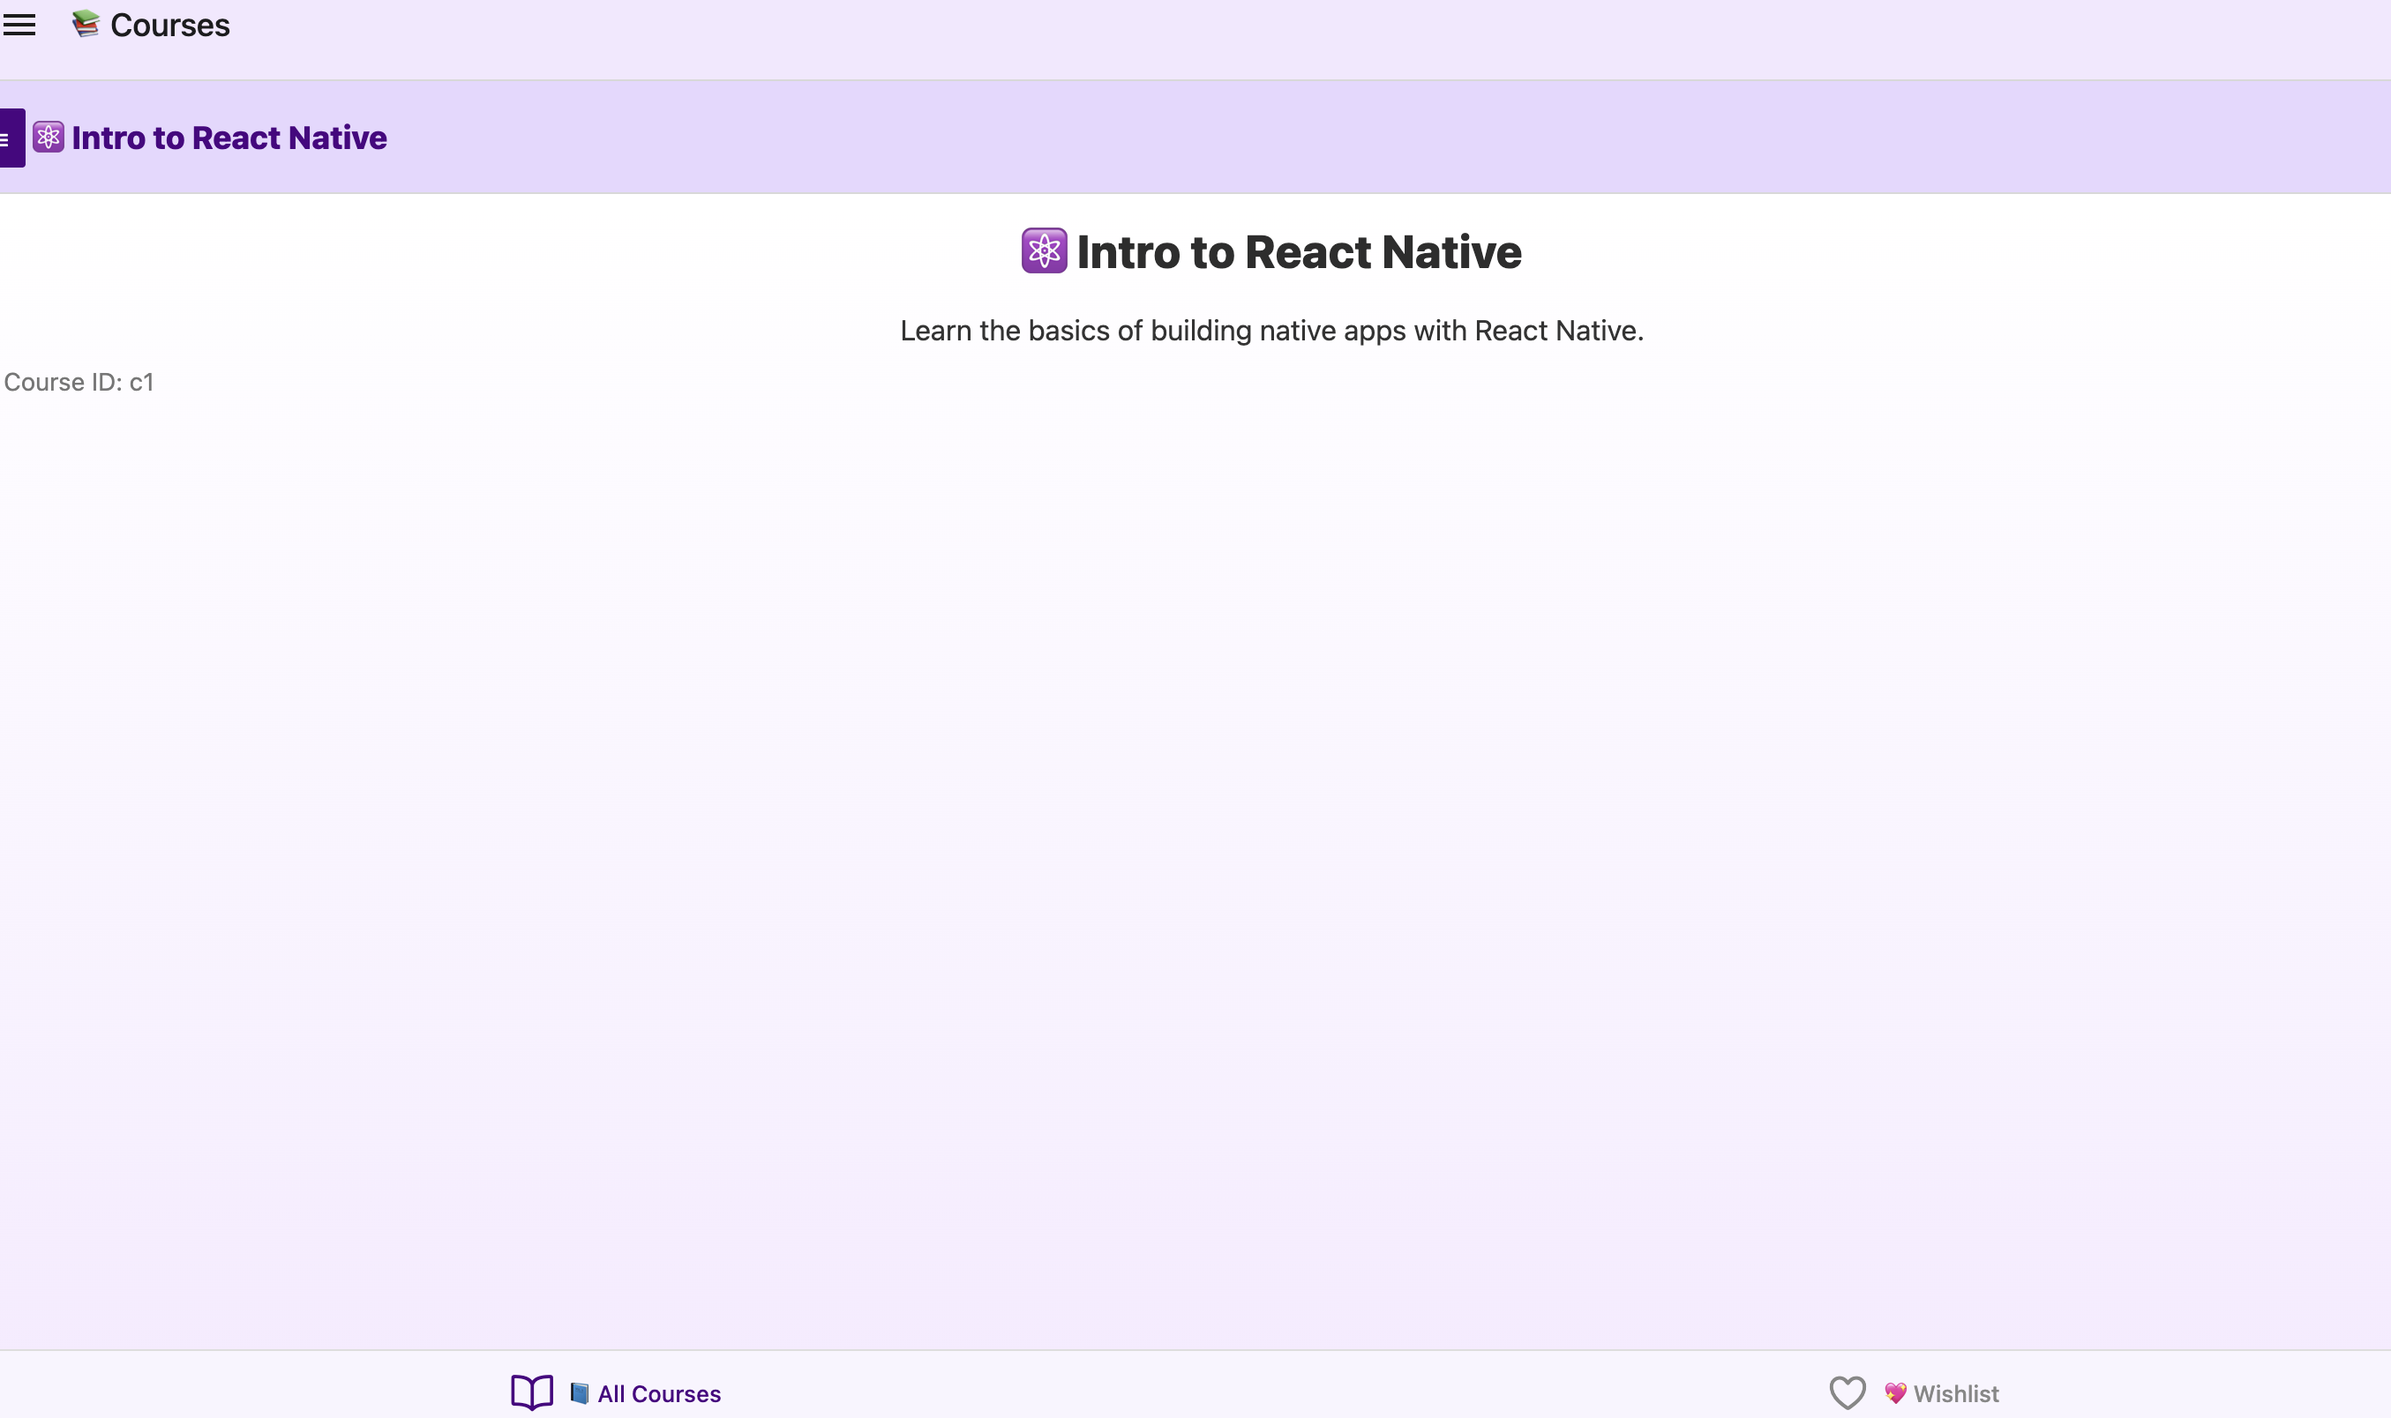
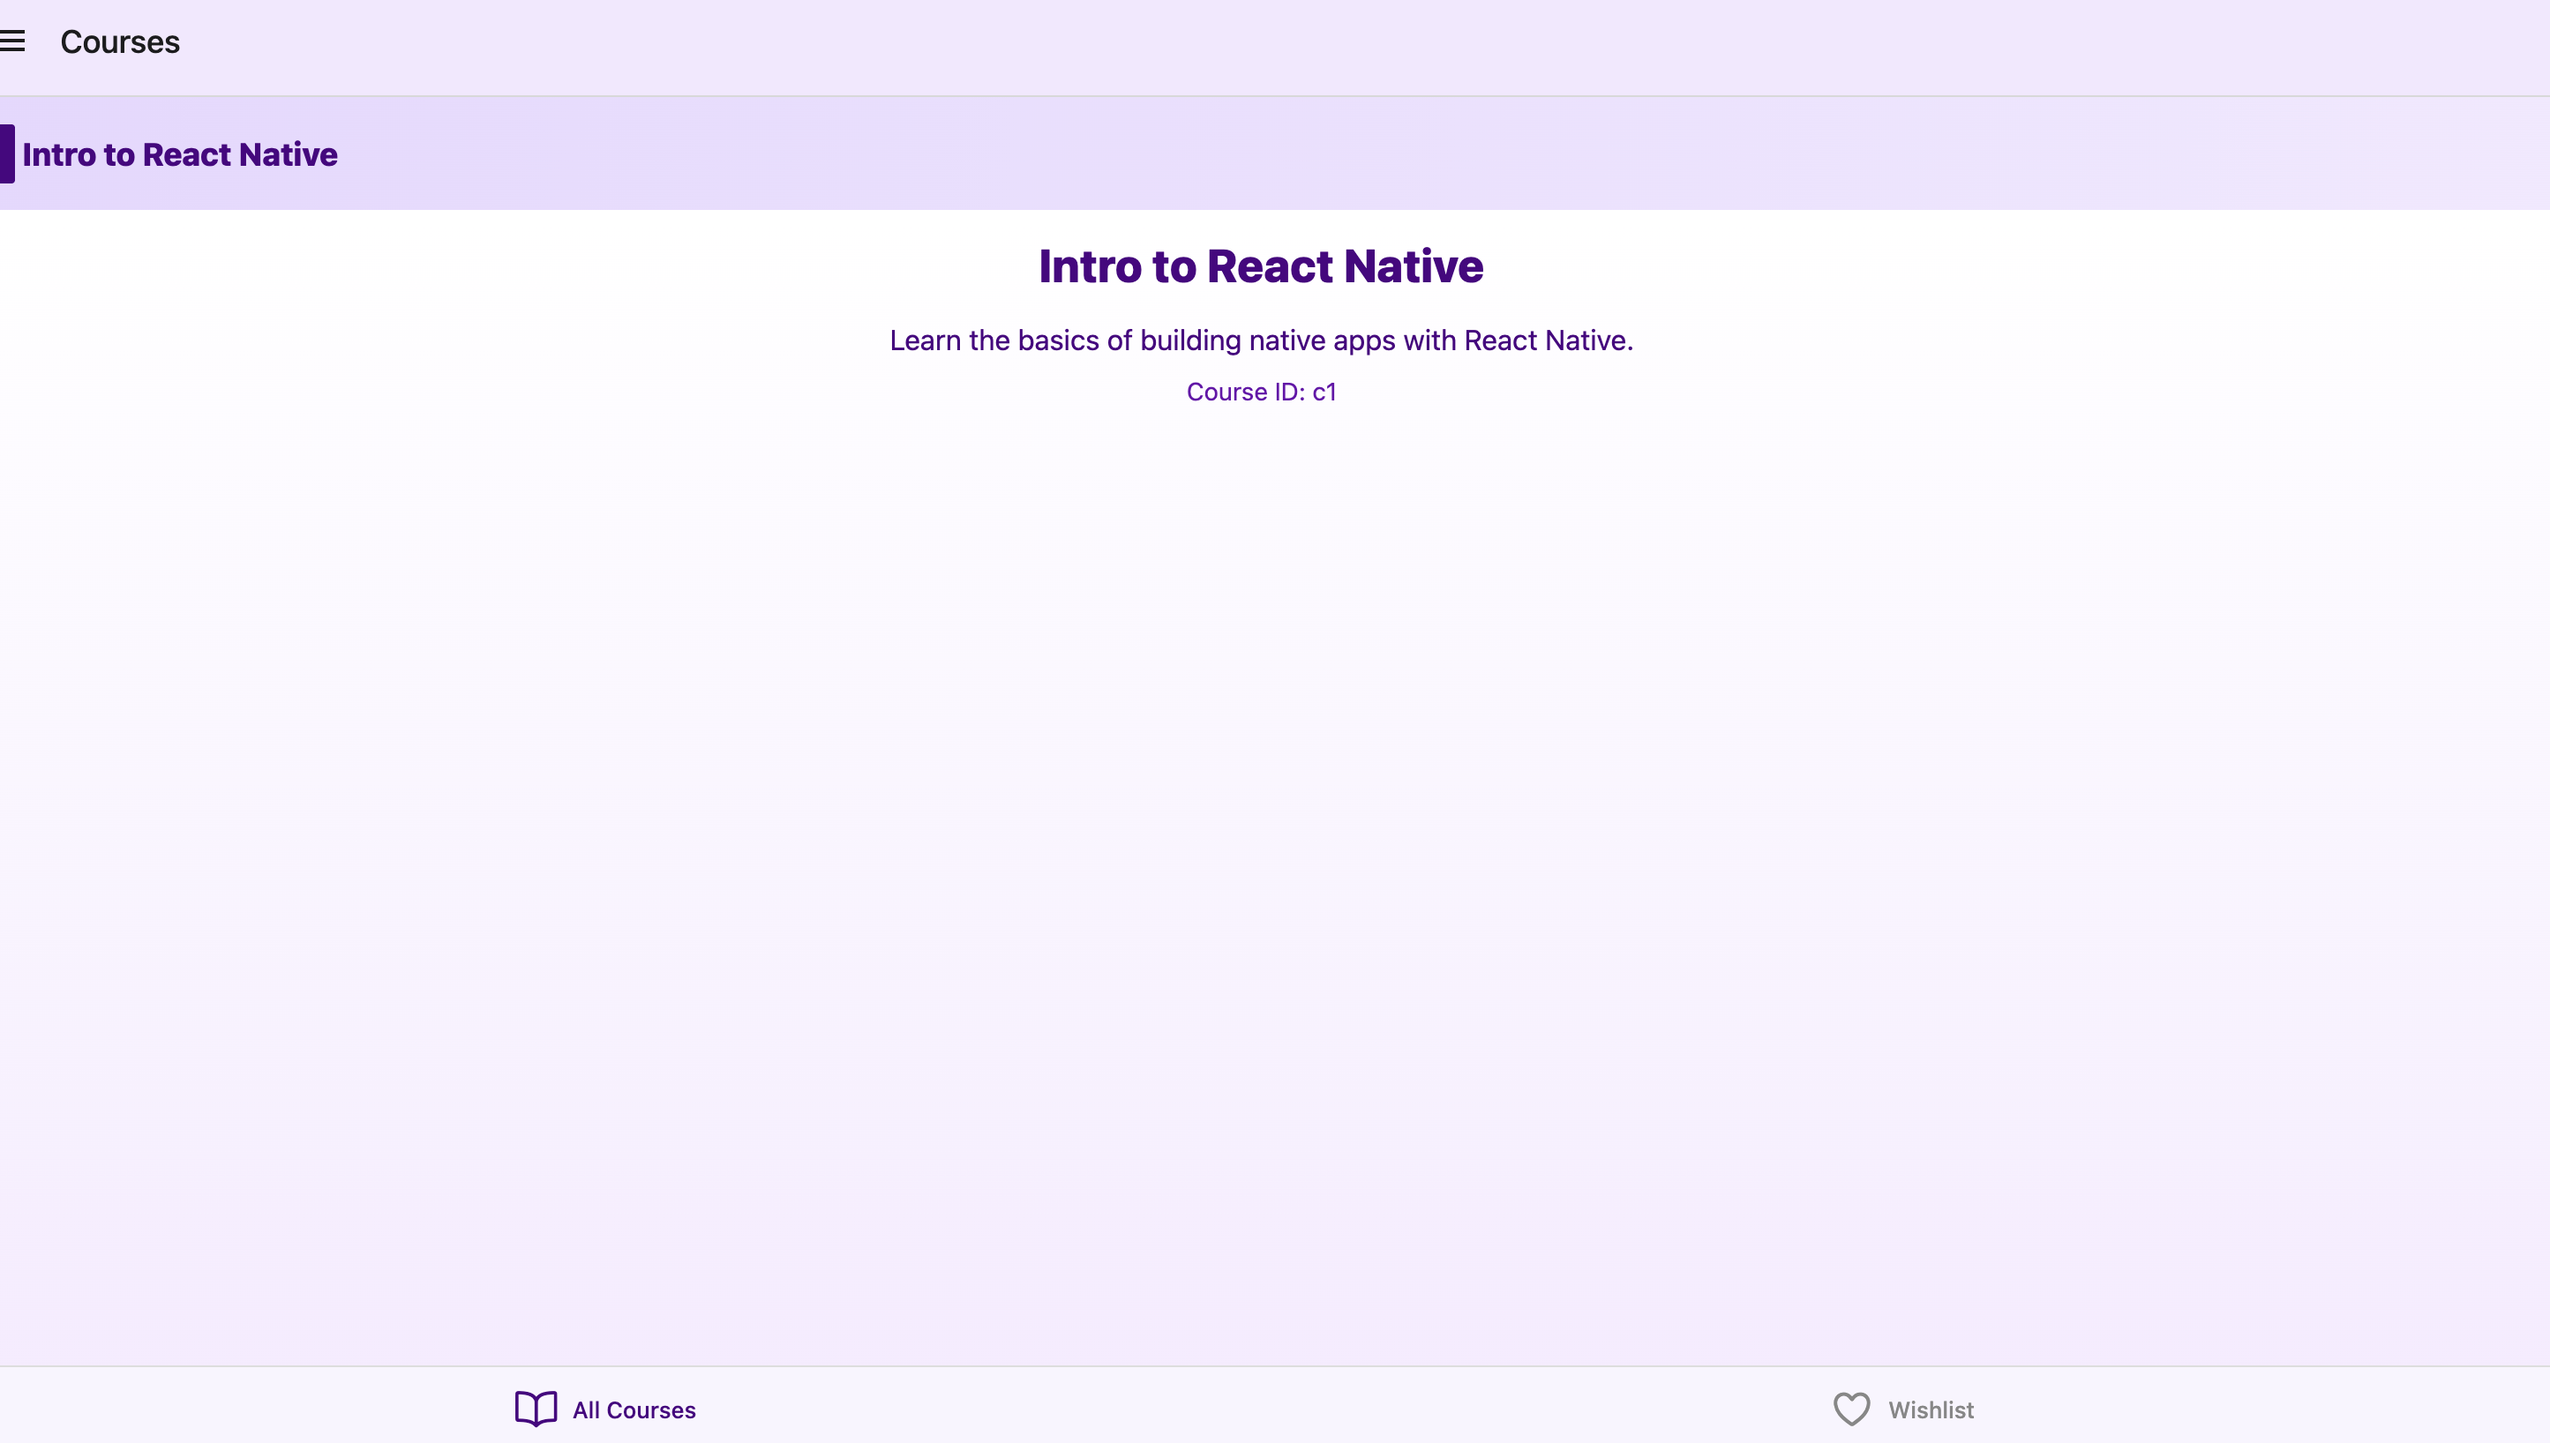
App-Version final - V3 - Devoir 5 Novembre 2025

diff --git a/app/_layout.tsx b/app/_layout.tsx
@@ -1,60 +1,118 @@
 import React from "react";
-import { Text, View, FlatList, Pressable, StyleSheet, Button, Image } from "react-native";
+import {
+  Text,
+  View,
+  FlatList,
+  Pressable,
+  StyleSheet,
+  Button,
+  Image,
+} from "react-native";
 import { DrawerActions } from "@react-navigation/native";
 import { createDrawerNavigator } from "@react-navigation/drawer";
 import { createBottomTabNavigator } from "@react-navigation/bottom-tabs";
 import { createNativeStackNavigator } from "@react-navigation/native-stack";
 import { LinearGradient } from "expo-linear-gradient";
 import Toast from "react-native-toast-message";
-import { Ionicons } from "@expo/vector-icons";
+import { Ionicons, MaterialCommunityIcons } from "@expo/vector-icons";
+import Animated, {
+  useSharedValue,
+  useAnimatedStyle,
+  withSpring,
+} from "react-native-reanimated";
 
 /* ---------- Données des cours ---------- */
 const COURSES = [
   {
     id: "c1",
-    title: "⚛ Intro to React Native",
+    title: "Intro to React Native",
     description: "Learn the basics of building native apps with React Native.",
   },
   {
     id: "c2",
-    title: "💡 Advanced JavaScript",
+    title: "Advanced JavaScript",
     description: "Deep dive into closures, prototypes, and async programming.",
   },
   {
     id: "c3",
-    title: "🎨 UI/UX for Developers",
+    title: "UI/UX for Developers",
     description: "Design better and more user-friendly interfaces.",
   },
 ];
 
+/* ---------- Composant : carte animée avec icônes ---------- */
+function AnimatedCourseCard({ item, navigation }: { item: any; navigation: any }) {
+  const scale = useSharedValue(1);
+
+  const animatedStyle = useAnimatedStyle(() => ({
+    transform: [{ scale: scale.value }],
+  }));
+
+  return (
+    <Animated.View style={[styles.card, animatedStyle]}>
+      <Pressable
+        onPressIn={() => (scale.value = withSpring(0.97))}
+        onPressOut={() => (scale.value = withSpring(1))}
+        onPress={() => {
+          Toast.show({
+            type: "success",
+            text1: "Opening course",
+            text2: item.title,
+          });
+          navigation.navigate("CourseDetail", {
+            courseId: item.id,
+            title: item.title,
+            description: item.description,
+          });
+        }}
+      >
+        <View style={{ flexDirection: "row", alignItems: "center" }}>
+          {item.id === "c1" && (
+            <Ionicons
+              name="compass-outline"
+              size={20}
+              color="#4b0082"
+              style={{ marginRight: 8 }}
+            />
+          )}
+          {item.id === "c2" && (
+            <MaterialCommunityIcons
+              name="code-tags"
+              size={20}
+              color="#4b0082"
+              style={{ marginRight: 8 }}
+            />
+          )}
+          {item.id === "c3" && (
+            <Ionicons
+              name="color-palette-outline"
+              size={20}
+              color="#4b0082"
+              style={{ marginRight: 8 }}
+            />
+          )}
+          <Text style={styles.cardTitle}>{item.title}</Text>
+        </View>
+        <Text style={styles.cardDesc}>{item.description}</Text>
+      </Pressable>
+    </Animated.View>
+  );
+}
+
 /* ---------- Écran : liste des cours ---------- */
 function CourseListScreen({ navigation }: { navigation: any }) {
   return (
-    <LinearGradient colors={["#f6ecff", "#faf7ff", "#ffffff"]} style={styles.gradient}>
-      <Text style={styles.heading}>📚 All Courses</Text>
+    <LinearGradient
+      colors={["#f6ecff", "#faf7ff", "#ffffff"]}
+      style={styles.gradient}
+    >
+      <Text style={styles.heading}>All Courses</Text>
 
       <FlatList
         data={COURSES}
         keyExtractor={(item) => item.id}
         renderItem={({ item }) => (
-          <Pressable
-            style={({ pressed }) => [styles.card, pressed && styles.pressed]}
-            onPress={() => {
-              Toast.show({
-                type: "success",
-                text1: "Opening course",
-                text2: item.title,
-              });
-              navigation.navigate("CourseDetail", {
-                courseId: item.id,
-                title: item.title,
-                description: item.description,
-              });
-            }}
-          >
-            <Text style={styles.cardTitle}>{item.title}</Text>
-            <Text style={styles.cardDesc}>{item.description}</Text>
-          </Pressable>
+          <AnimatedCourseCard item={item} navigation={navigation} />
         )}
       />
       <Toast />
@@ -69,7 +127,7 @@ function CourseDetailScreen({ route }: { route: any }) {
     <LinearGradient colors={["#ffffff", "#f6ecff"]} style={styles.gradient}>
       <Text style={styles.heading}>{title}</Text>
       <Text style={styles.body}>{description}</Text>
-      <Text style={{ color: "#777", marginTop: 10 }}>Course ID: {courseId}</Text>
+      <Text style={styles.subText}>Course ID: {courseId}</Text>
     </LinearGradient>
   );
 }
@@ -78,7 +136,7 @@ function CourseDetailScreen({ route }: { route: any }) {
 function WishlistScreen() {
   return (
     <LinearGradient colors={["#fff0f6", "#ffffff"]} style={styles.gradient}>
-      <Text style={styles.heading}>💖 My Wishlist</Text>
+      <Text style={styles.heading}>My Wishlist</Text>
       <Text style={styles.body}>Your wishlist is empty for now...</Text>
     </LinearGradient>
   );
@@ -91,11 +149,16 @@ function ProfileScreen() {
       <View style={{ alignItems: "center" }}>
         <Image
           source={{ uri: "https://i.pravatar.cc/150?img=47" }}
-          style={{ width: 100, height: 100, borderRadius: 50, marginBottom: 16 }}
+          style={{
+            width: 100,
+            height: 100,
+            borderRadius: 50,
+            marginBottom: 16,
+          }}
         />
-        <Text style={styles.heading}>👩💻 My Profile</Text>
+        <Text style={styles.heading}>My Profile</Text>
         <Text style={styles.body}>Name: Firdaws El Yahiaoui </Text>
-        <Text style={styles.body}>Email: f.elyahiaoui@students.ephec.be </Text>
+        <Text style={styles.body}>Email: firdawselyahiaoui.pro@gmail.com</Text>
       </View>
     </LinearGradient>
   );
@@ -109,23 +172,38 @@ function CoursesStack() {
     <Stack.Navigator
       screenOptions={({ navigation }) => ({
         headerShown: true,
-        headerStyle: { backgroundColor: "#e8d7ff" },
         headerTintColor: "#4b0082",
         headerTitleStyle: { fontWeight: "800", fontSize: 18 },
+        headerBackground: () => (
+          <LinearGradient
+            colors={["#e8d7ff", "#f2e9ff"]}
+            start={{ x: 0, y: 0 }}
+            end={{ x: 1, y: 1 }}
+            style={{ flex: 1 }}
+          />
+        ),
         headerLeft: () => (
           <Button
             title="☰"
             color="#4b0082"
-            onPress={() => navigation.getParent()?.dispatch(DrawerActions.openDrawer())}
+            onPress={() =>
+              navigation.getParent()?.dispatch(DrawerActions.openDrawer())
+            }
           />
         ),
       })}
     >
-      <Stack.Screen name="CourseList" component={CourseListScreen} options={{ title: "Courses" }} />
+      <Stack.Screen
+        name="CourseList"
+        component={CourseListScreen}
+        options={{ title: "Courses" }}
+      />
       <Stack.Screen
         name="CourseDetail"
         component={CourseDetailScreen}
-        options={({ route }: any) => ({ title: route.params?.title || "Course Detail" })}
+        options={({ route }: any) => ({
+          title: route.params?.title || "Course Detail",
+        })}
       />
     </Stack.Navigator>
   );
@@ -148,7 +226,7 @@ function CoursesTabs() {
         name="AllCourses"
         component={CoursesStack}
         options={{
-          title: "📘 All Courses",
+          title: "All Courses",
           tabBarIcon: ({ color, size }) => (
             <Ionicons name="book-outline" color={color} size={size} />
           ),
@@ -158,7 +236,7 @@ function CoursesTabs() {
         name="Wishlist"
         component={WishlistScreen}
         options={{
-          title: "💖 Wishlist",
+          title: "Wishlist",
           tabBarIcon: ({ color, size }) => (
             <Ionicons name="heart-outline" color={color} size={size} />
           ),
@@ -173,18 +251,31 @@ const Drawer = createDrawerNavigator();
 
 export default function Layout() {
   return (
-    <Drawer.Navigator
-      initialRouteName="Courses"
-      screenOptions={{
-        drawerActiveTintColor: "#4b0082",
-        drawerInactiveTintColor: "#333",
-        drawerStyle: { backgroundColor: "#faf7ff" },
-        headerStyle: { backgroundColor: "#f2e9ff" },
-      }}
-    >
-      <Drawer.Screen name="Courses" component={CoursesTabs} options={{ title: "📚 Courses" }} />
-      <Drawer.Screen name="MyProfile" component={ProfileScreen} options={{ title: "👩💻 Profile" }} />
-    </Drawer.Navigator>
+    <>
+      <Drawer.Navigator
+        initialRouteName="Courses"
+        screenOptions={{
+          drawerActiveTintColor: "#4b0082",
+          drawerInactiveTintColor: "#333",
+          drawerStyle: { backgroundColor: "#faf7ff" },
+          headerStyle: { backgroundColor: "#f2e9ff" },
+        }}
+      >
+        <Drawer.Screen
+          name="Courses"
+          component={CoursesTabs}
+          options={{ title: "Courses" }}
+        />
+        <Drawer.Screen
+          name="MyProfile"
+          component={ProfileScreen}
+          options={{ title: "Profile" }}
+        />
+      </Drawer.Navigator>
+
+      {/* Toast global */}
+      <Toast />
+    </>
   );
 }
 
@@ -194,11 +285,22 @@ const styles = StyleSheet.create({
   heading: {
     fontSize: 26,
     fontWeight: "800",
-    color: "#2d2d2d",
+    color: "#4b0082",
     marginBottom: 16,
     textAlign: "center",
   },
-  body: { fontSize: 16, color: "#333", lineHeight: 22, textAlign: "center" },
+  body: {
+    fontSize: 16,
+    color: "#4b0082",
+    lineHeight: 22,
+    textAlign: "center",
+  },
+  subText: {
+    fontSize: 14,
+    color: "#6a0dad",
+    marginTop: 10,
+    textAlign: "center",
+  },
   card: {
     backgroundColor: "#f8f0ff",
     padding: 14,
@@ -210,7 +312,6 @@ const styles = StyleSheet.create({
     shadowOpacity: 0.05,
     shadowRadius: 4,
   },
-  pressed: { opacity: 0.85 },
   cardTitle: { fontSize: 18, fontWeight: "700", color: "#4b0082" },
-  cardDesc: { fontSize: 14, color: "#5c5c5c", marginTop: 4 },
+  cardDesc: { fontSize: 14, color: "#4b0082", marginTop: 6 },
 });
